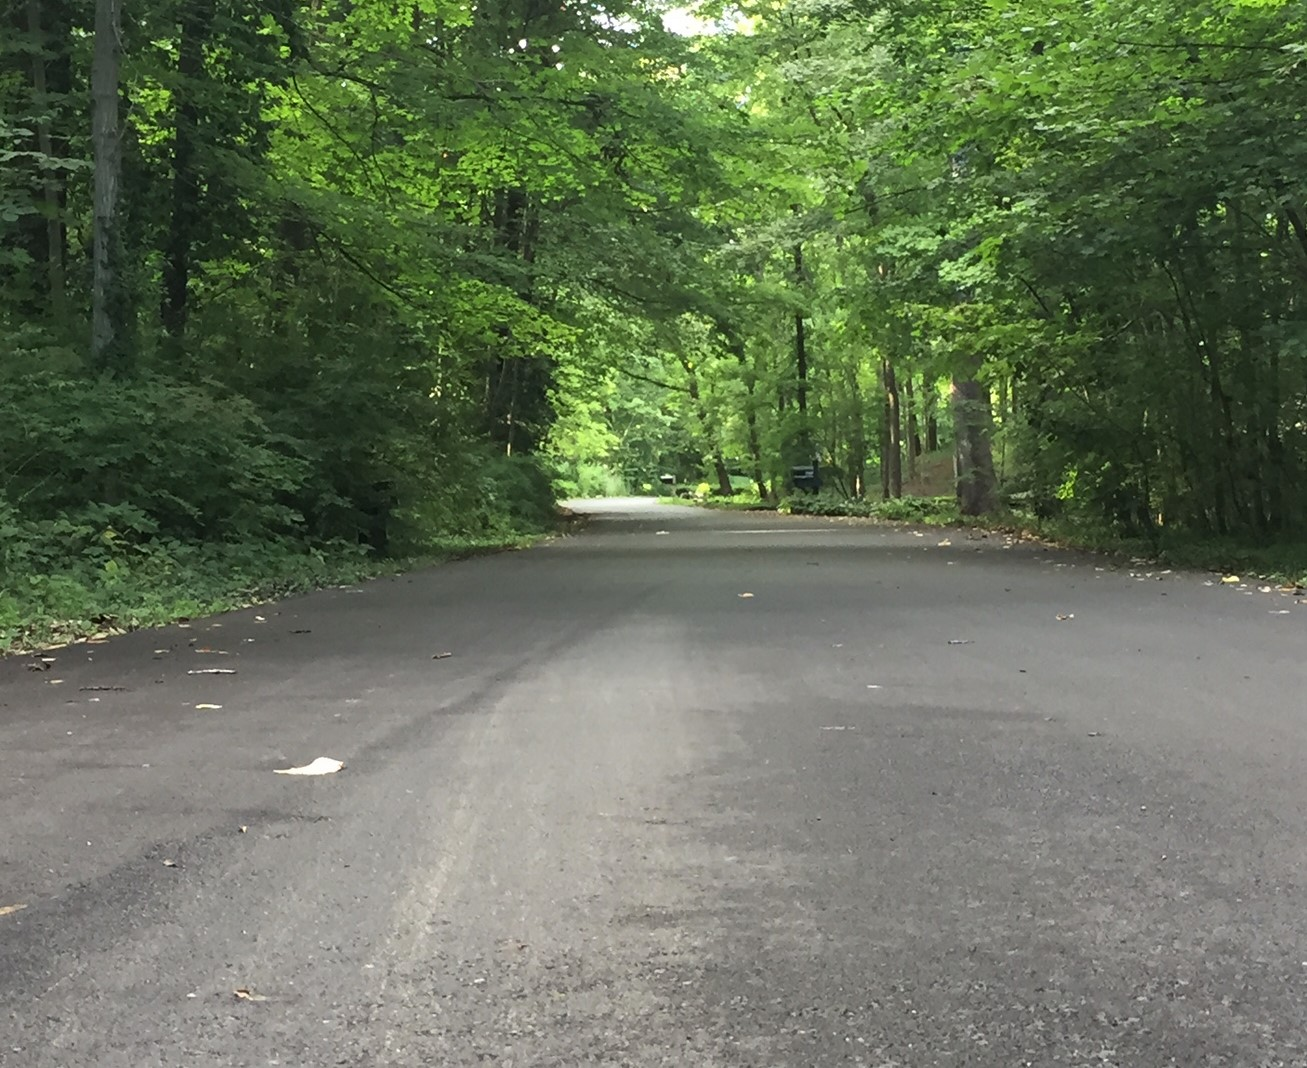
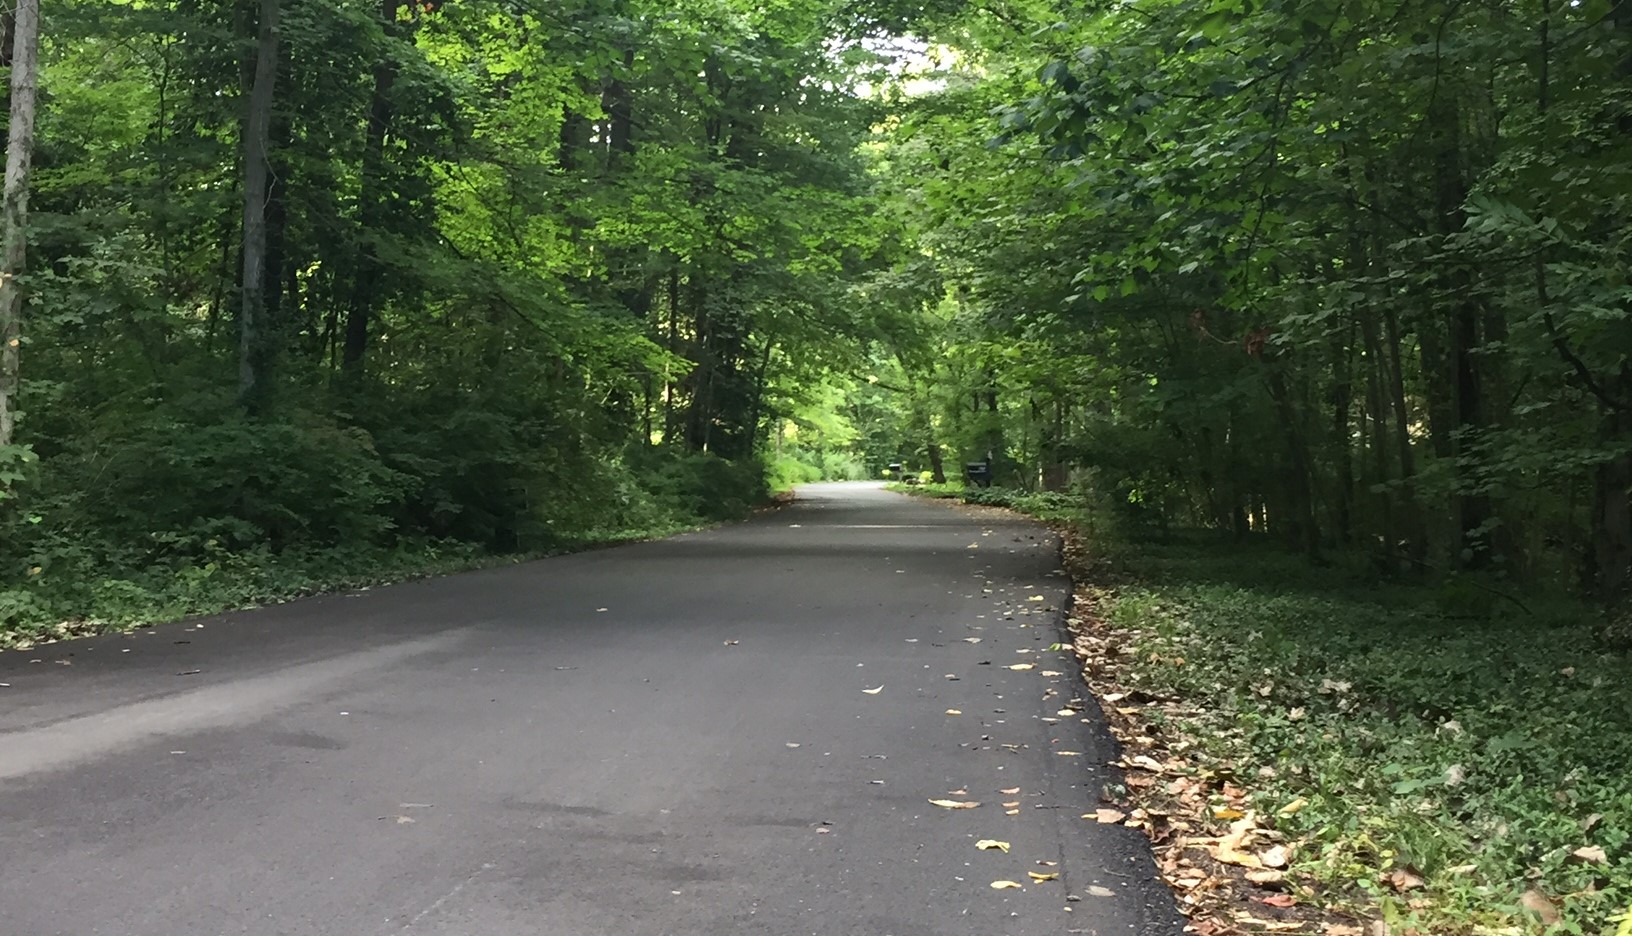
added background to header, updated section about me good for rough draft.

diff --git a/index.html b/index.html
@@ -23,7 +23,7 @@
     <!-- Navigation -->
     <nav class="navbar navbar-expand-lg navbar-dark bg-dark fixed-top" id="mainNav">
       <div class="container">
-        <a class="navbar-brand js-scroll-trigger" href="#page-top">Hi my name is</a>
+        <a class="navbar-brand js-scroll-trigger" href="#page-top">Hi my name is AJ</a>
         <button class="navbar-toggler" type="button" data-toggle="collapse" data-target="#navbarResponsive" aria-controls="navbarResponsive" aria-expanded="false" aria-label="Toggle navigation">
           <span class="navbar-toggler-icon"></span>
         </button>
@@ -36,6 +36,9 @@
               <a class="nav-link js-scroll-trigger" href="#services">Services</a>
             </li>
             <li class="nav-item">
+              <a class="nav-link js-scroll-trigger" href="#education">Education</a>
+            </li>
+            <li class="nav-item">
               <a class="nav-link js-scroll-trigger" href="#contact">Contact</a>
             </li>
           </ul>
@@ -43,7 +46,7 @@
       </div>
     </nav>
 
-    <header class="text-white" style="background-image: url('img/williams_creek1.jpg')";>
+    <header style="background-image: url('img/williams_creek2.jpg')";>
       <div class="container text-center">
         <h1>AJ Hephner</h1>
         <p class="lead"><strong>Learning Developer-View from 80" up-Ready for anything</strong></p>
@@ -56,8 +59,8 @@
     <section id="about">
       <div class="container">
         <div class="row">
-          <div class="col-lg-1">
-            <img src="img/me.jpeg" class="img-rounded" alt="Jackie and I" width="304" height="236">
+          <div class="col-lg-4">
+            <img src="img/me.jpeg" class="happy" alt="Jackie and I">
           </div>
           <div class="col-lg-8">
             <h2 style="font-color: red;">About me</h2>
@@ -88,7 +91,7 @@
     </section>
 
 
-    <section id="services" class="bg-light">
+    <section id="education" class="bg-light">
       <div class="container">
         <div class="row">
           <div class="col-lg-8 mx-auto">

diff --git a/css/scrolling-nav.css b/css/scrolling-nav.css
@@ -5,10 +5,20 @@
  */
 
 header {
-  padding: 154px 0 100px;
+  padding: 0 0 100px;
   
 }
 
+header h1 {
+  color: white;
+  font-family: arial, sans-serif;
+  font-size: 50px;
+}
+header p{
+  color: white;
+  font-family: arial, sans-serif;
+  font-size: 35px;
+}
 @media (min-width: 992px) {
   header {
     padding: 156px 0 100px;
@@ -19,8 +29,14 @@ section {
   padding: 150px 0;
 }
 
-#about{
-	background-color: rgb(197, 197, 197, 0.5);
+section#about{
+	background-color: #ede4c7;
+}
+
+section .happy{
+  border-radius: 40%;
+  width: 304px;
+  height: 335px;
 }
 hr.style-two {
     border: 0;
